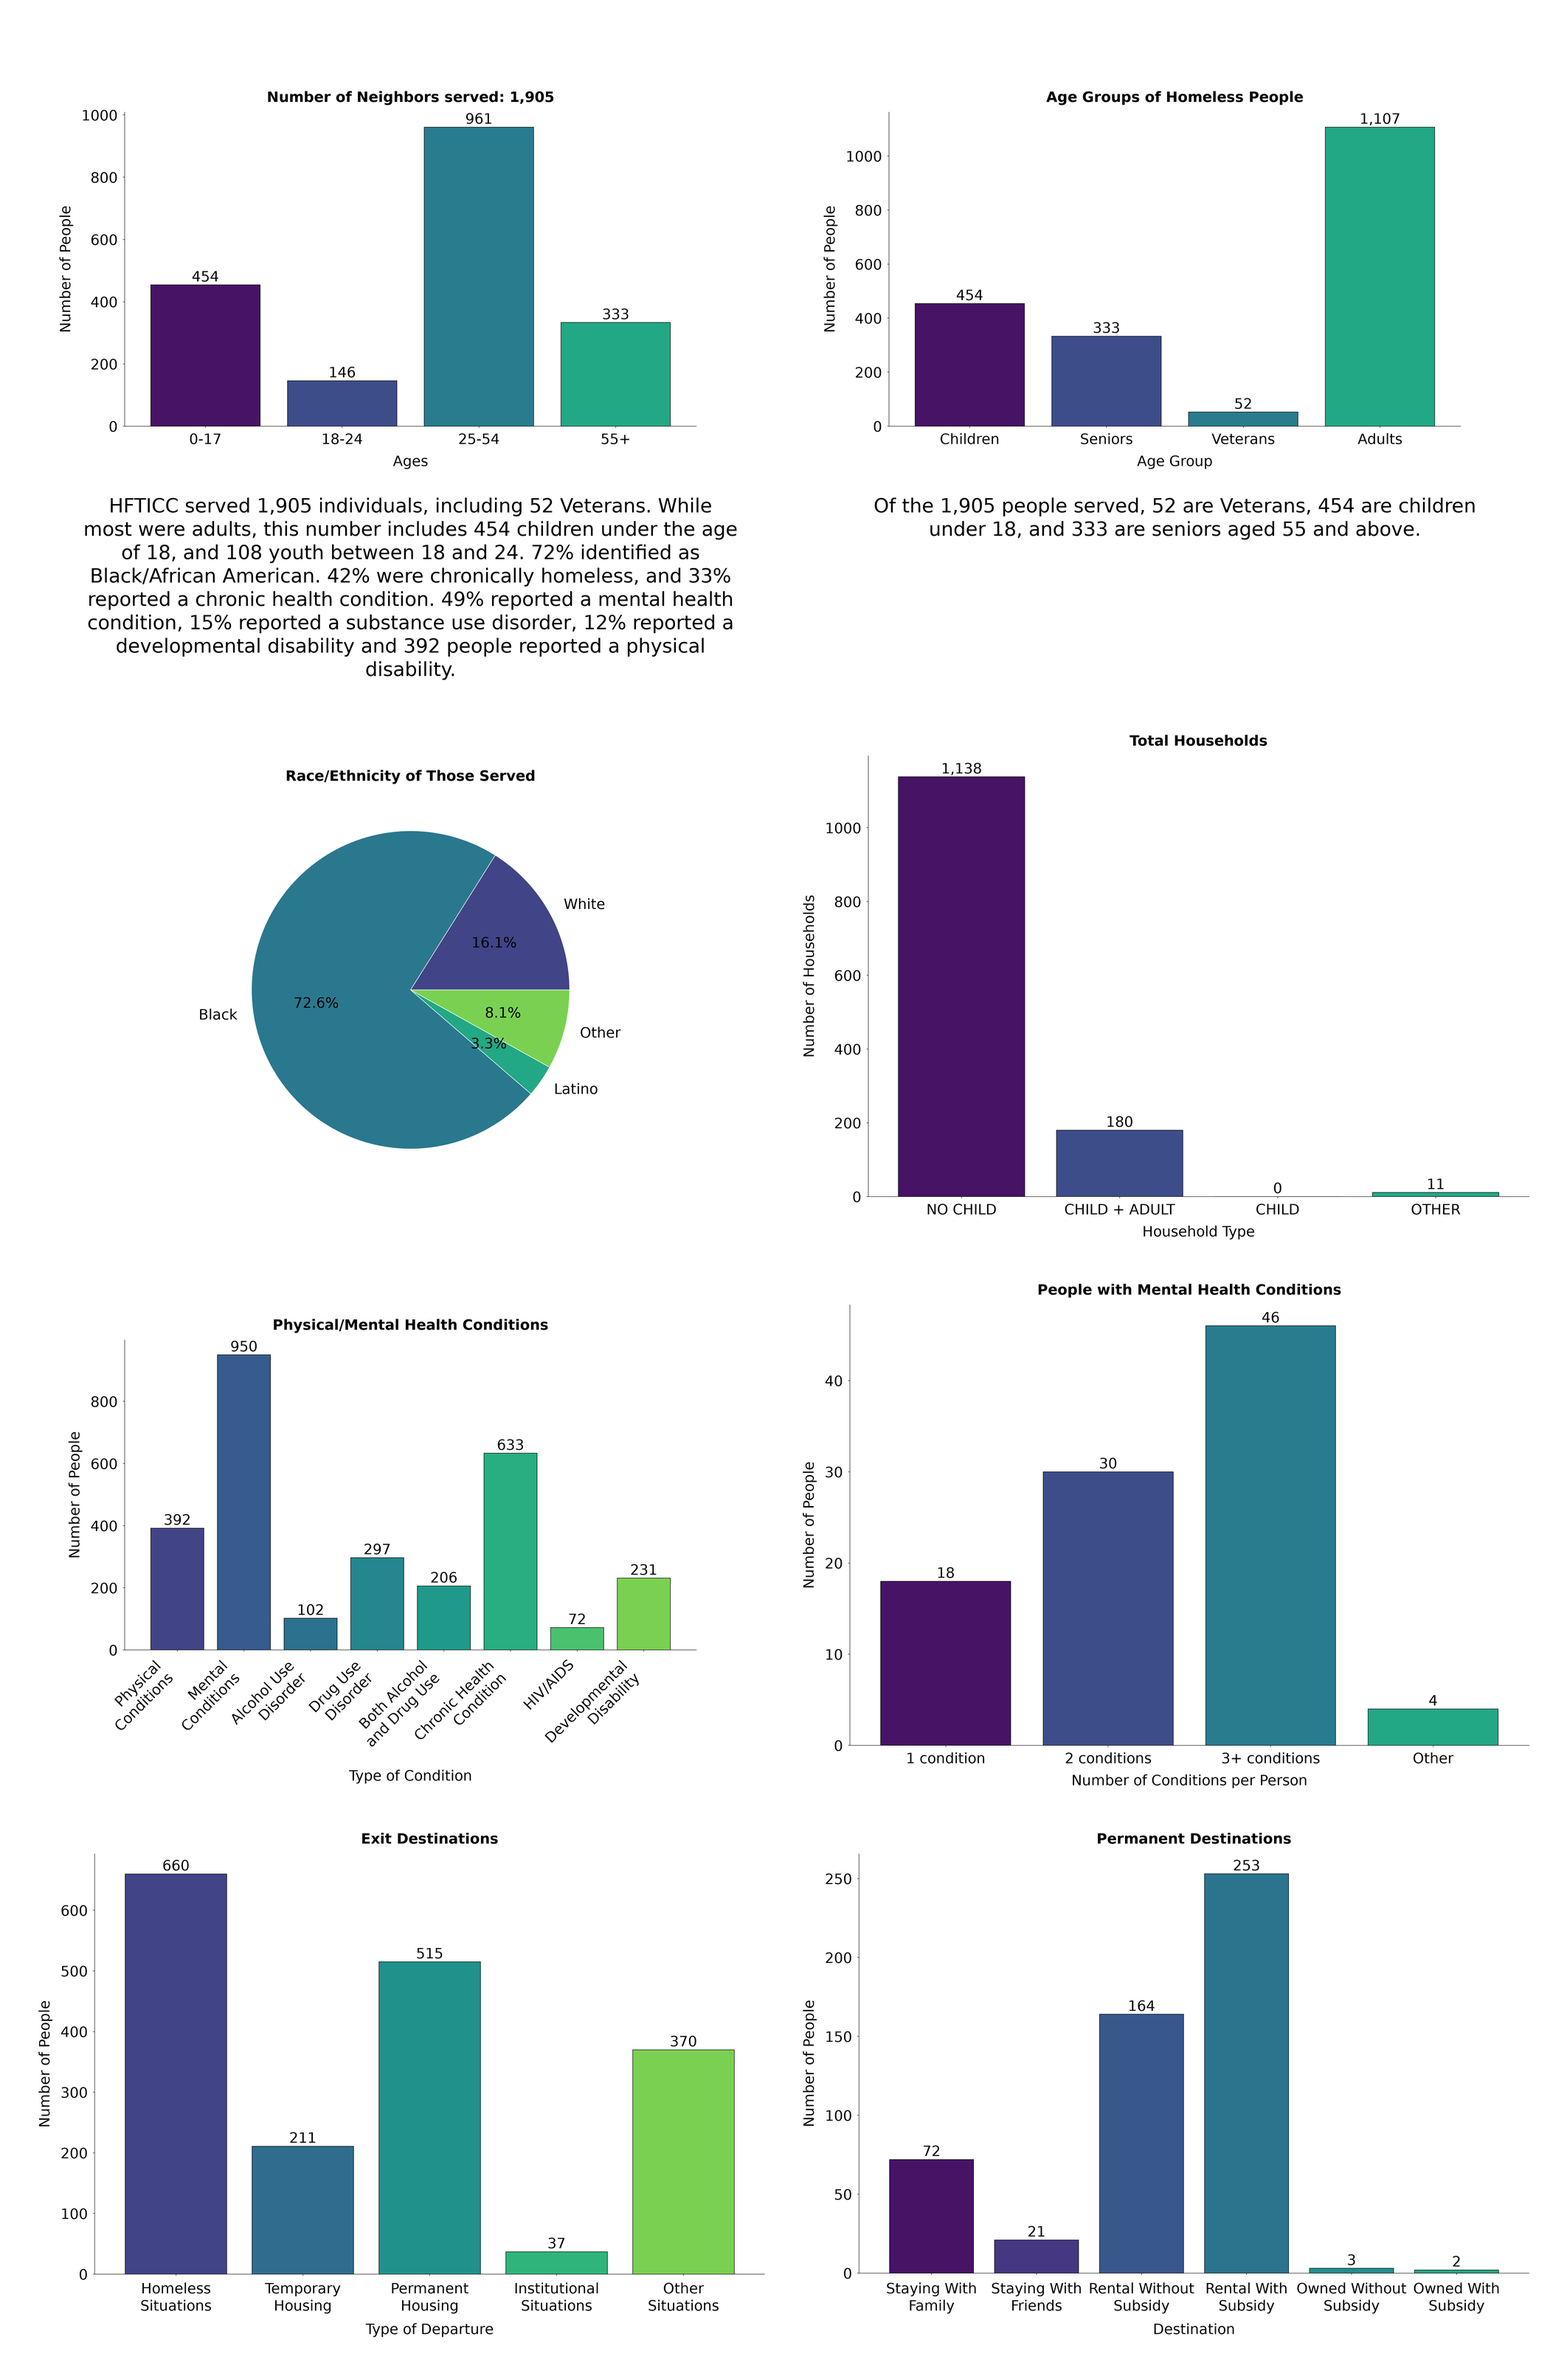
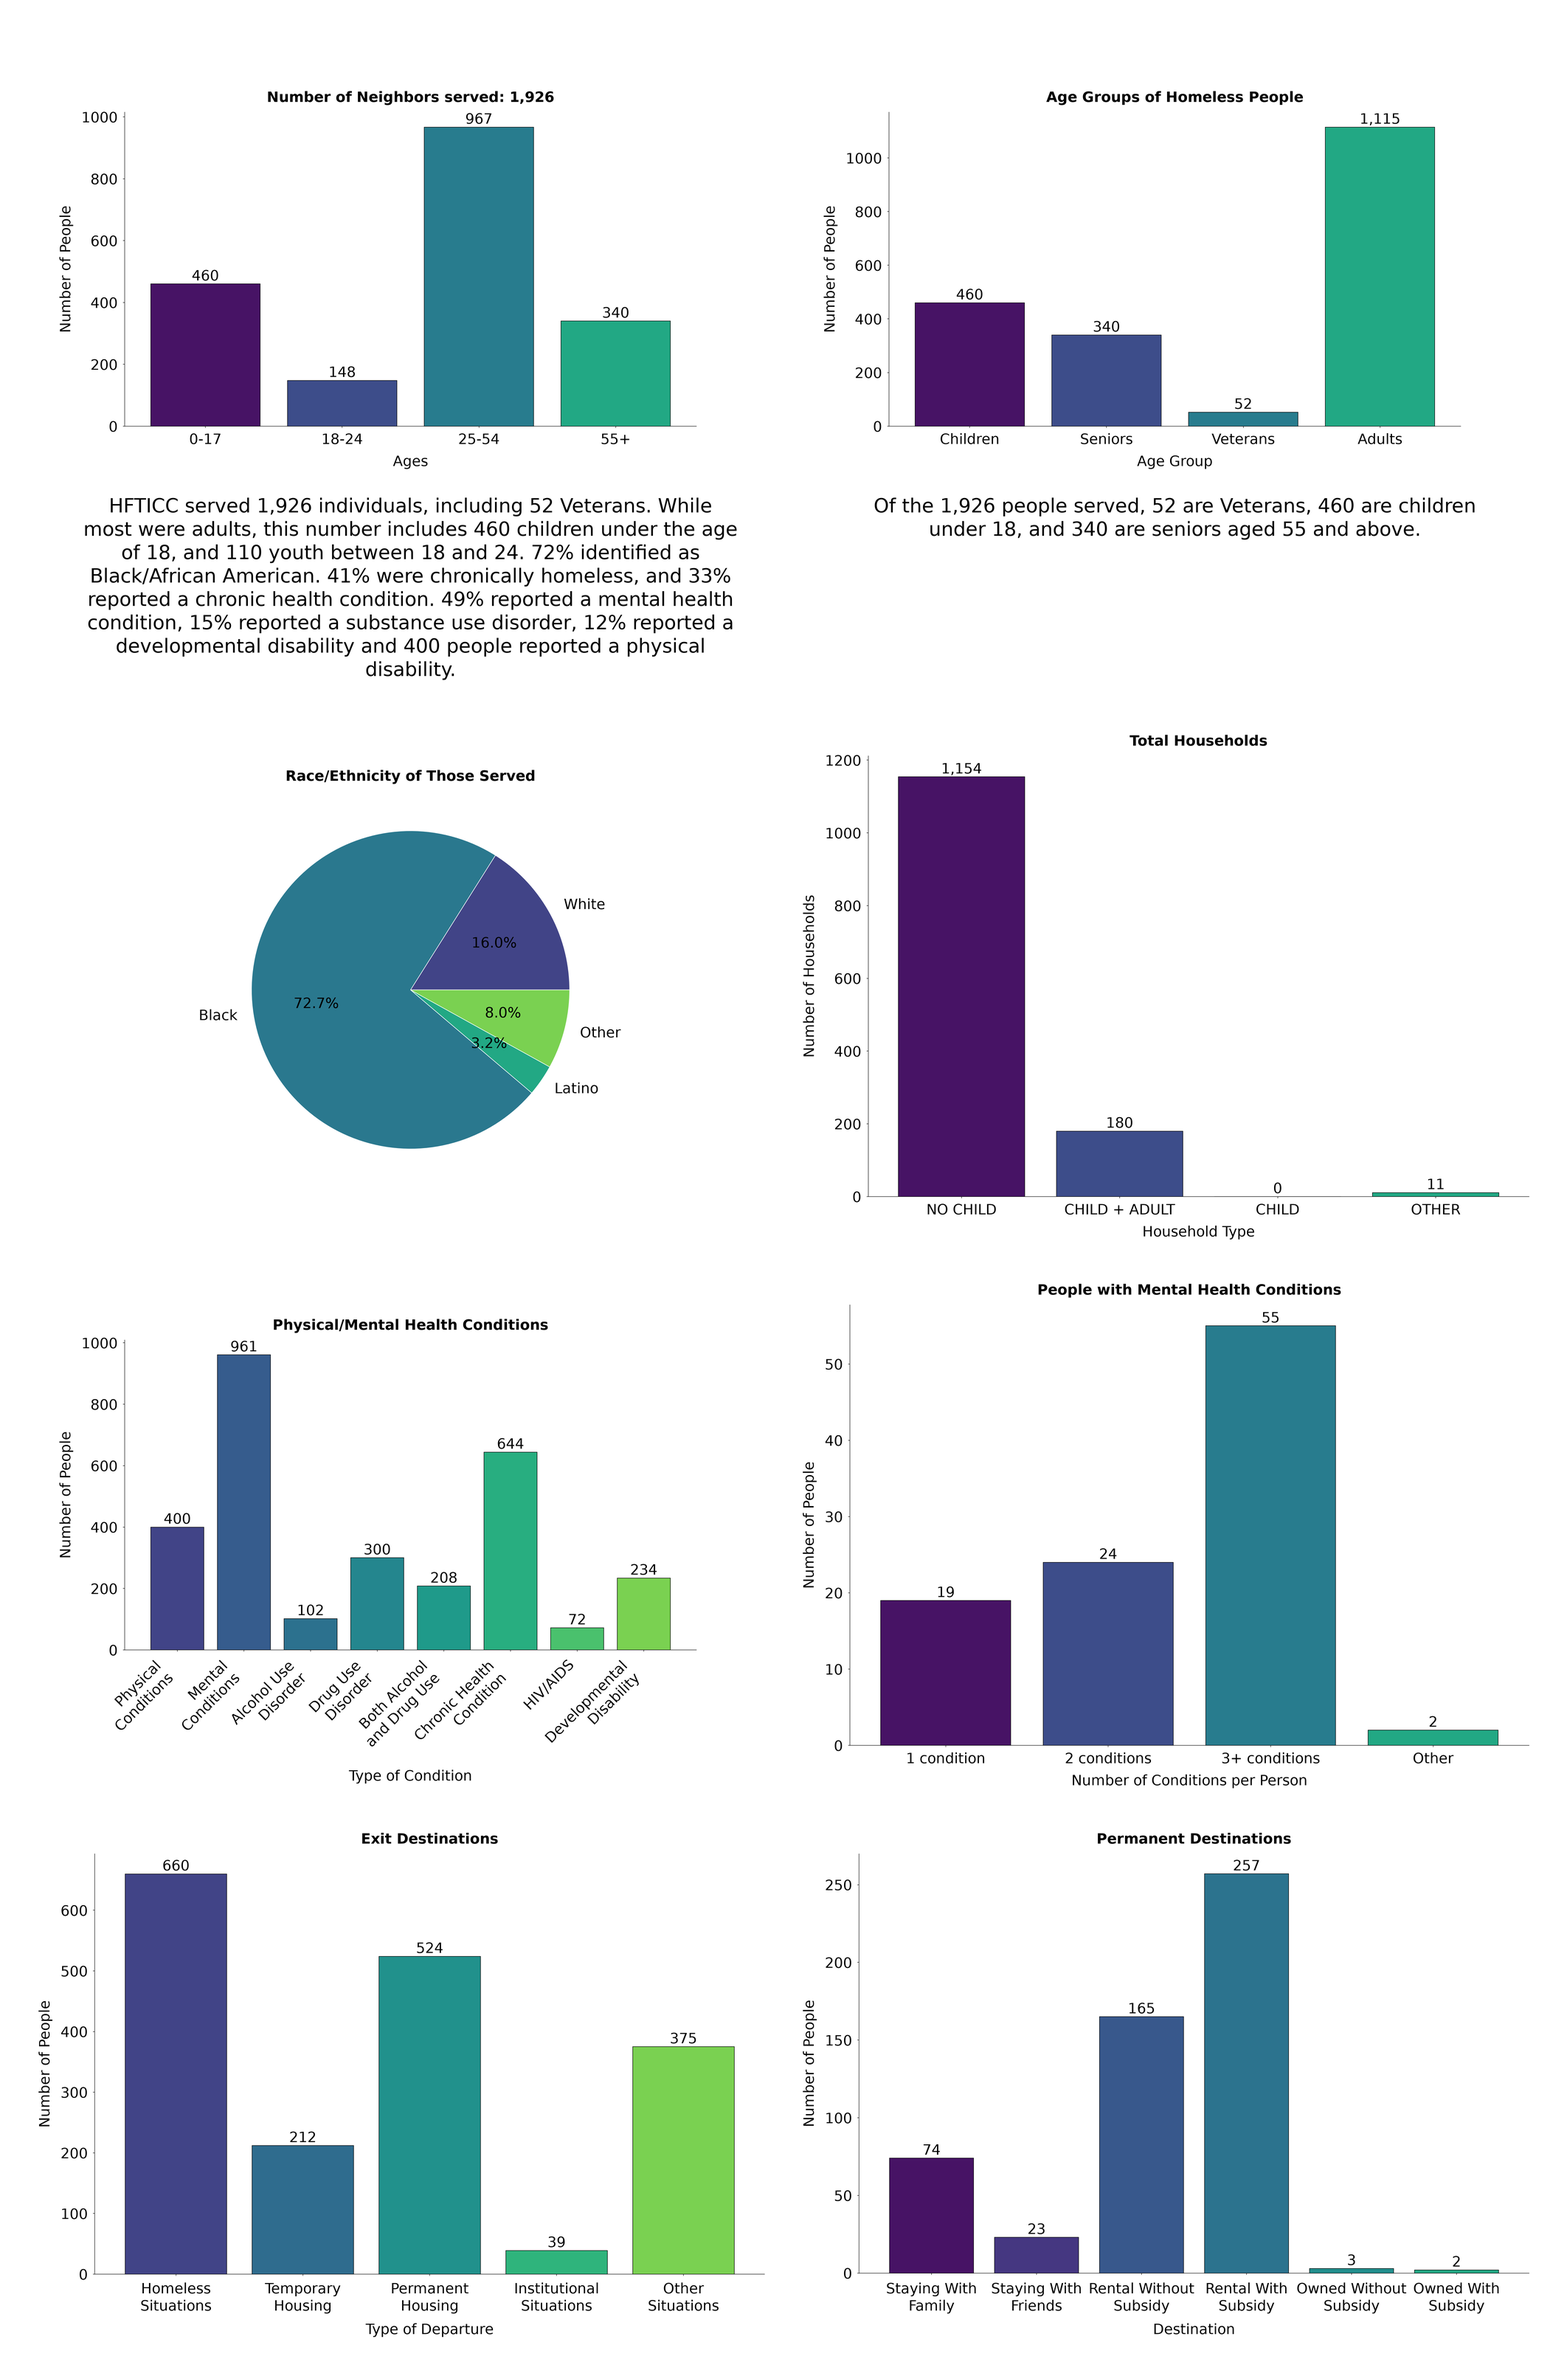
Update APR dashboard 2026-11-02 14:46

diff --git a/index.html b/index.html
@@ -44,12 +44,12 @@
 <body>
   <div class="wrap">
     <section class="summary">
-      <h1>Impact since HFTICC was first funded in May of 2023</h1><p class="updated">Updated October 06, 2026</p><p class="kicker">Reporting period 2023&ndash;2026</p>
-      <p class="hero"><span class="hero-value">1,905</span><span class="hero-label">Neighbors served</span></p>
-      <div class="tiles"><div class="tile"><span class="tile-value">1,101</span><span class="tile-label">Positive housing exits</span></div><div class="tile"><span class="tile-value">515</span><span class="tile-label">Moved into permanent housing</span></div></div>
-      <h2>Who we served</h2><p>From 2023 to 2026, the HFTICC organization has served a total of 1,905 people. Out of the 1,905 people helped, 454 people are children under the age of 18, 146 people are from the ages of 18-24, 961 people are from the ages of 25-54 and 333 people are from the ages of 55 and above, and all of them are homeless. 180 of the households served have children, and 72.6% of the people served identify as Black or African American.</p><p>Out of the 1,905 people who are homeless, 52 people are veterans; the majority of them are adults and seniors from the age range of 35-55 and above. Also, out of the 1,905 people who are homeless, 802 people are chronically homeless. This means a person who has a long-term disabling condition and has experienced long periods of homelessness. 950 people reported a mental health condition.</p><h2>Program Recidivism</h2><p>15% of those who exited street outreach to permanent situations within the two-year period leading up to the current fiscal year returned to homelessness within 2 years after their exit. Exits to permanent situations include exits to market-rate and subsidized rental units and staying permanently with family and/or friends.</p>
+      <h1>Impact since HFTICC was first funded in May of 2023</h1><p class="updated">Updated November 02, 2026</p><p class="kicker">Reporting period 2023&ndash;2026</p>
+      <p class="hero"><span class="hero-value">1,926</span><span class="hero-label">Neighbors served</span></p>
+      <div class="tiles"><div class="tile"><span class="tile-value">1,117</span><span class="tile-label">Positive housing exits</span></div><div class="tile"><span class="tile-value">524</span><span class="tile-label">Moved into permanent housing</span></div></div>
+      <h2>Who we served</h2><p>From 2023 to 2026, the HFTICC organization has served a total of 1,926 people. Out of the 1,926 people helped, 460 people are children under the age of 18, 148 people are from the ages of 18-24, 967 people are from the ages of 25-54 and 340 people are from the ages of 55 and above, and all of them are homeless. 180 of the households served have children, and 72.7% of the people served identify as Black or African American.</p><p>Out of the 1,926 people who are homeless, 52 people are veterans; the majority of them are adults and seniors from the age range of 35-55 and above. Also, out of the 1,926 people who are homeless, 805 people are chronically homeless. This means a person who has a long-term disabling condition and has experienced long periods of homelessness. 961 people reported a mental health condition.</p><h2>Program Recidivism</h2><p>15% of those who exited street outreach to permanent situations within the two-year period leading up to the current fiscal year returned to homelessness within 2 years after their exit. Exits to permanent situations include exits to market-rate and subsidized rental units and staying permanently with family and/or friends.</p>
     </section>
-    <img src="charts/dashboard.png?v=20261006144930"
+    <img src="charts/dashboard.png?v=20261102144637"
          alt="Impact since HFTICC was first funded in May of 2023 charts">
   </div>
 </body>
